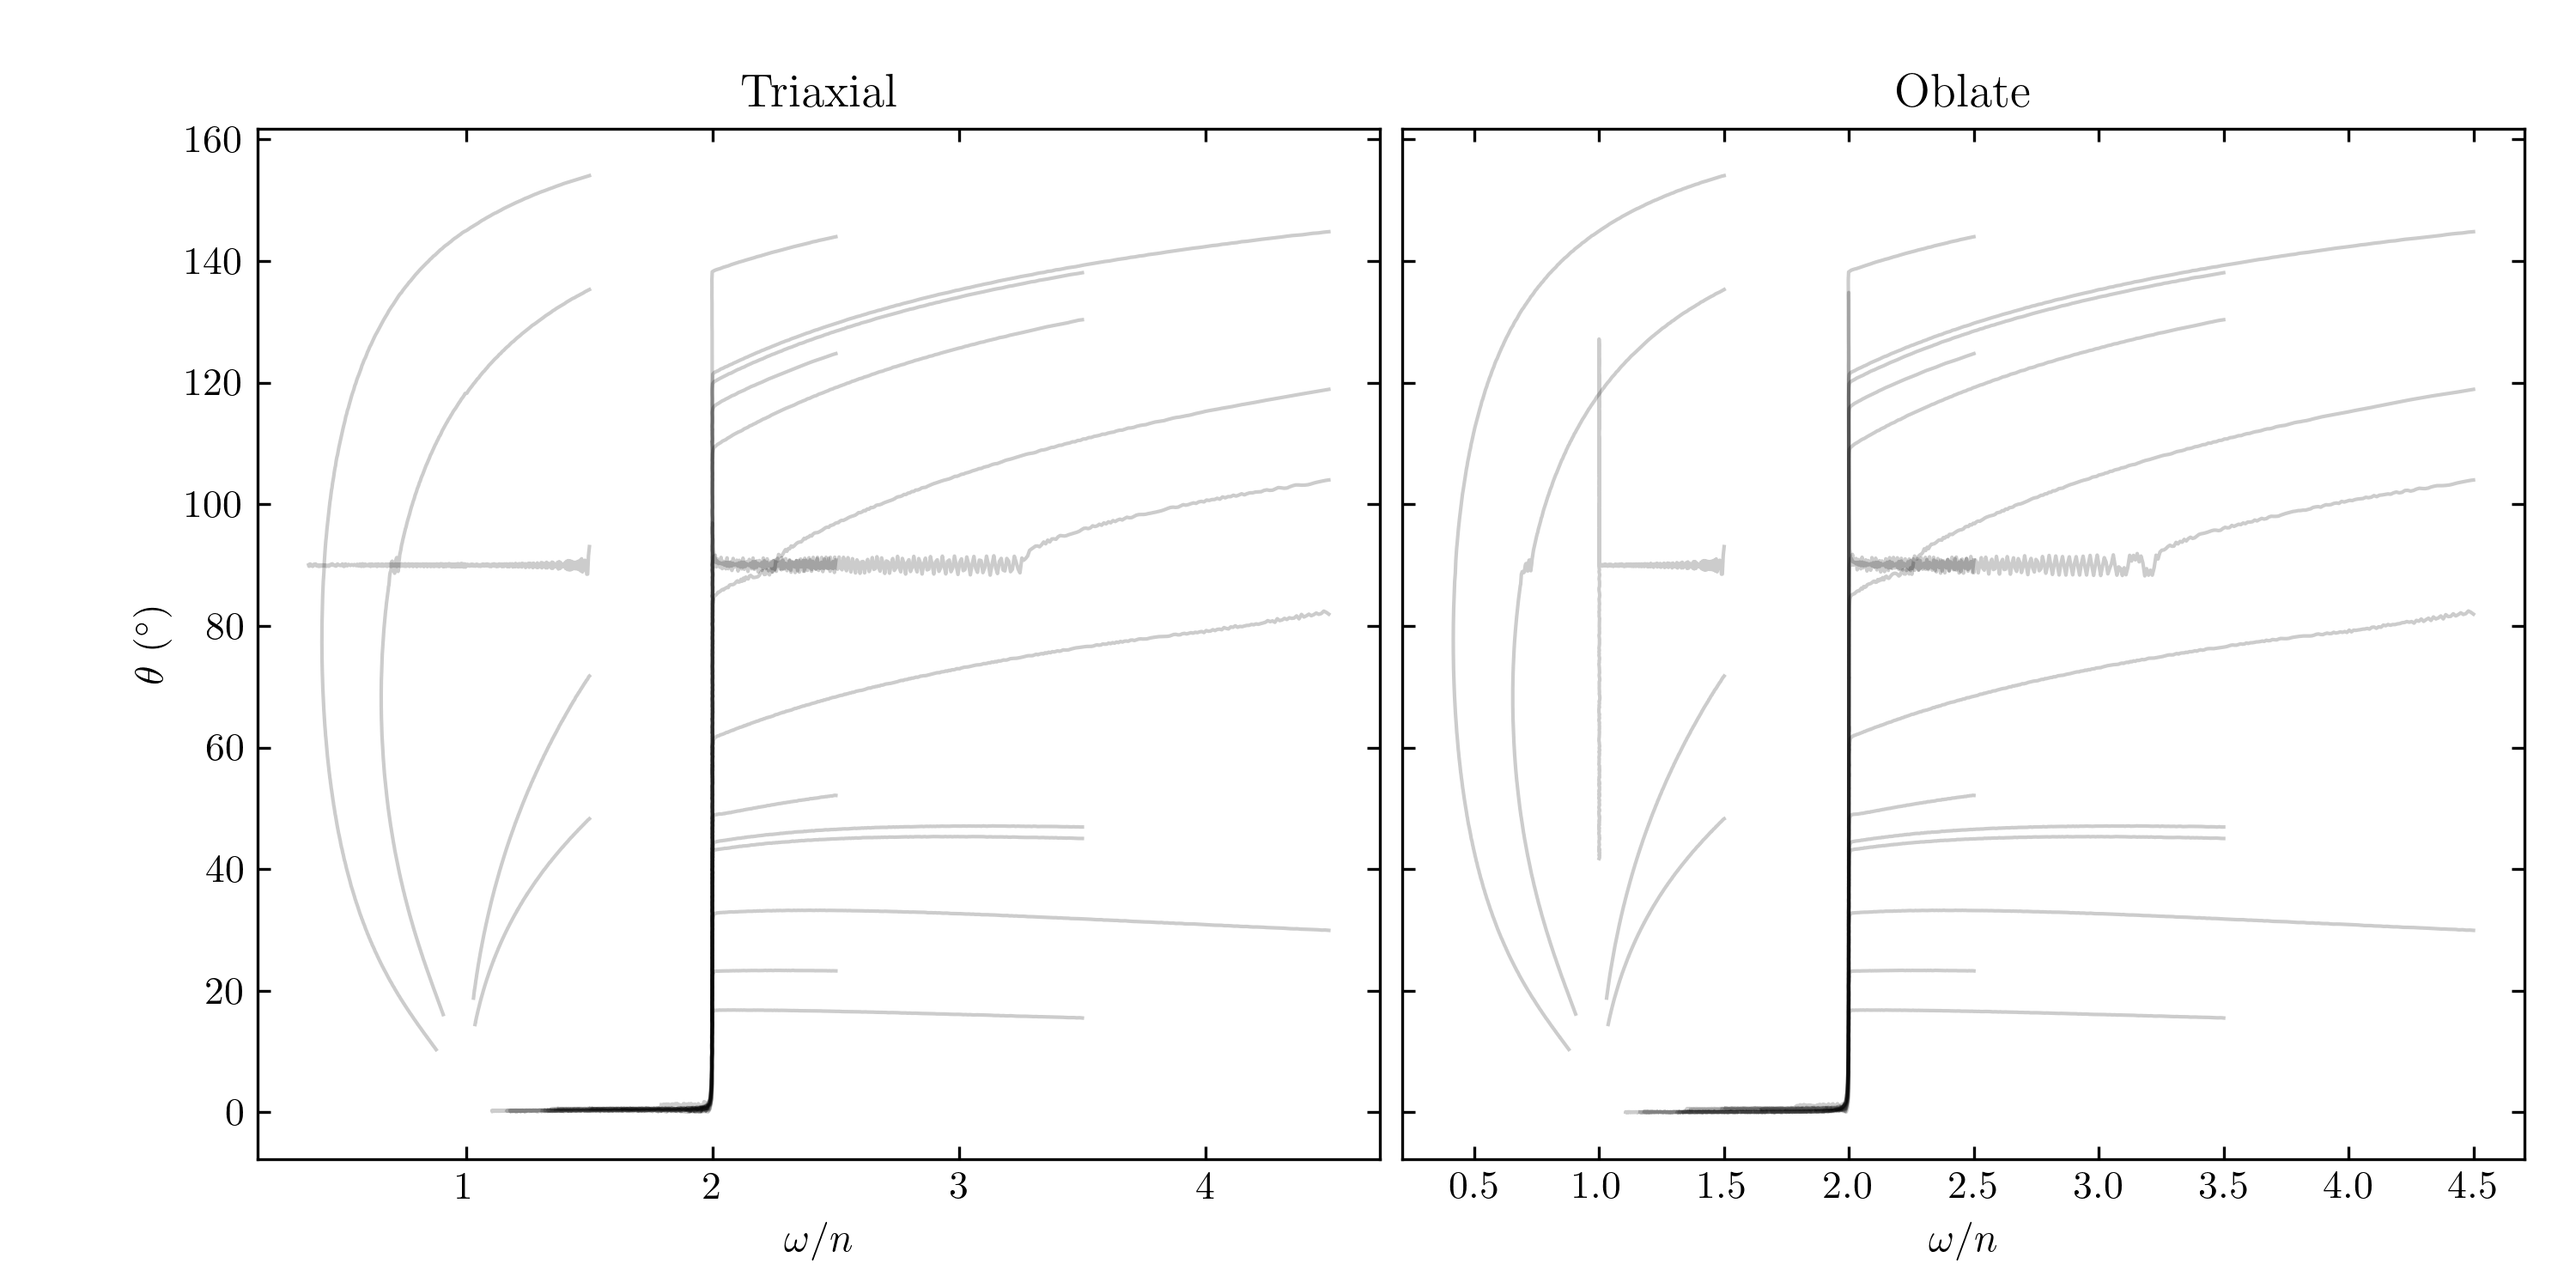
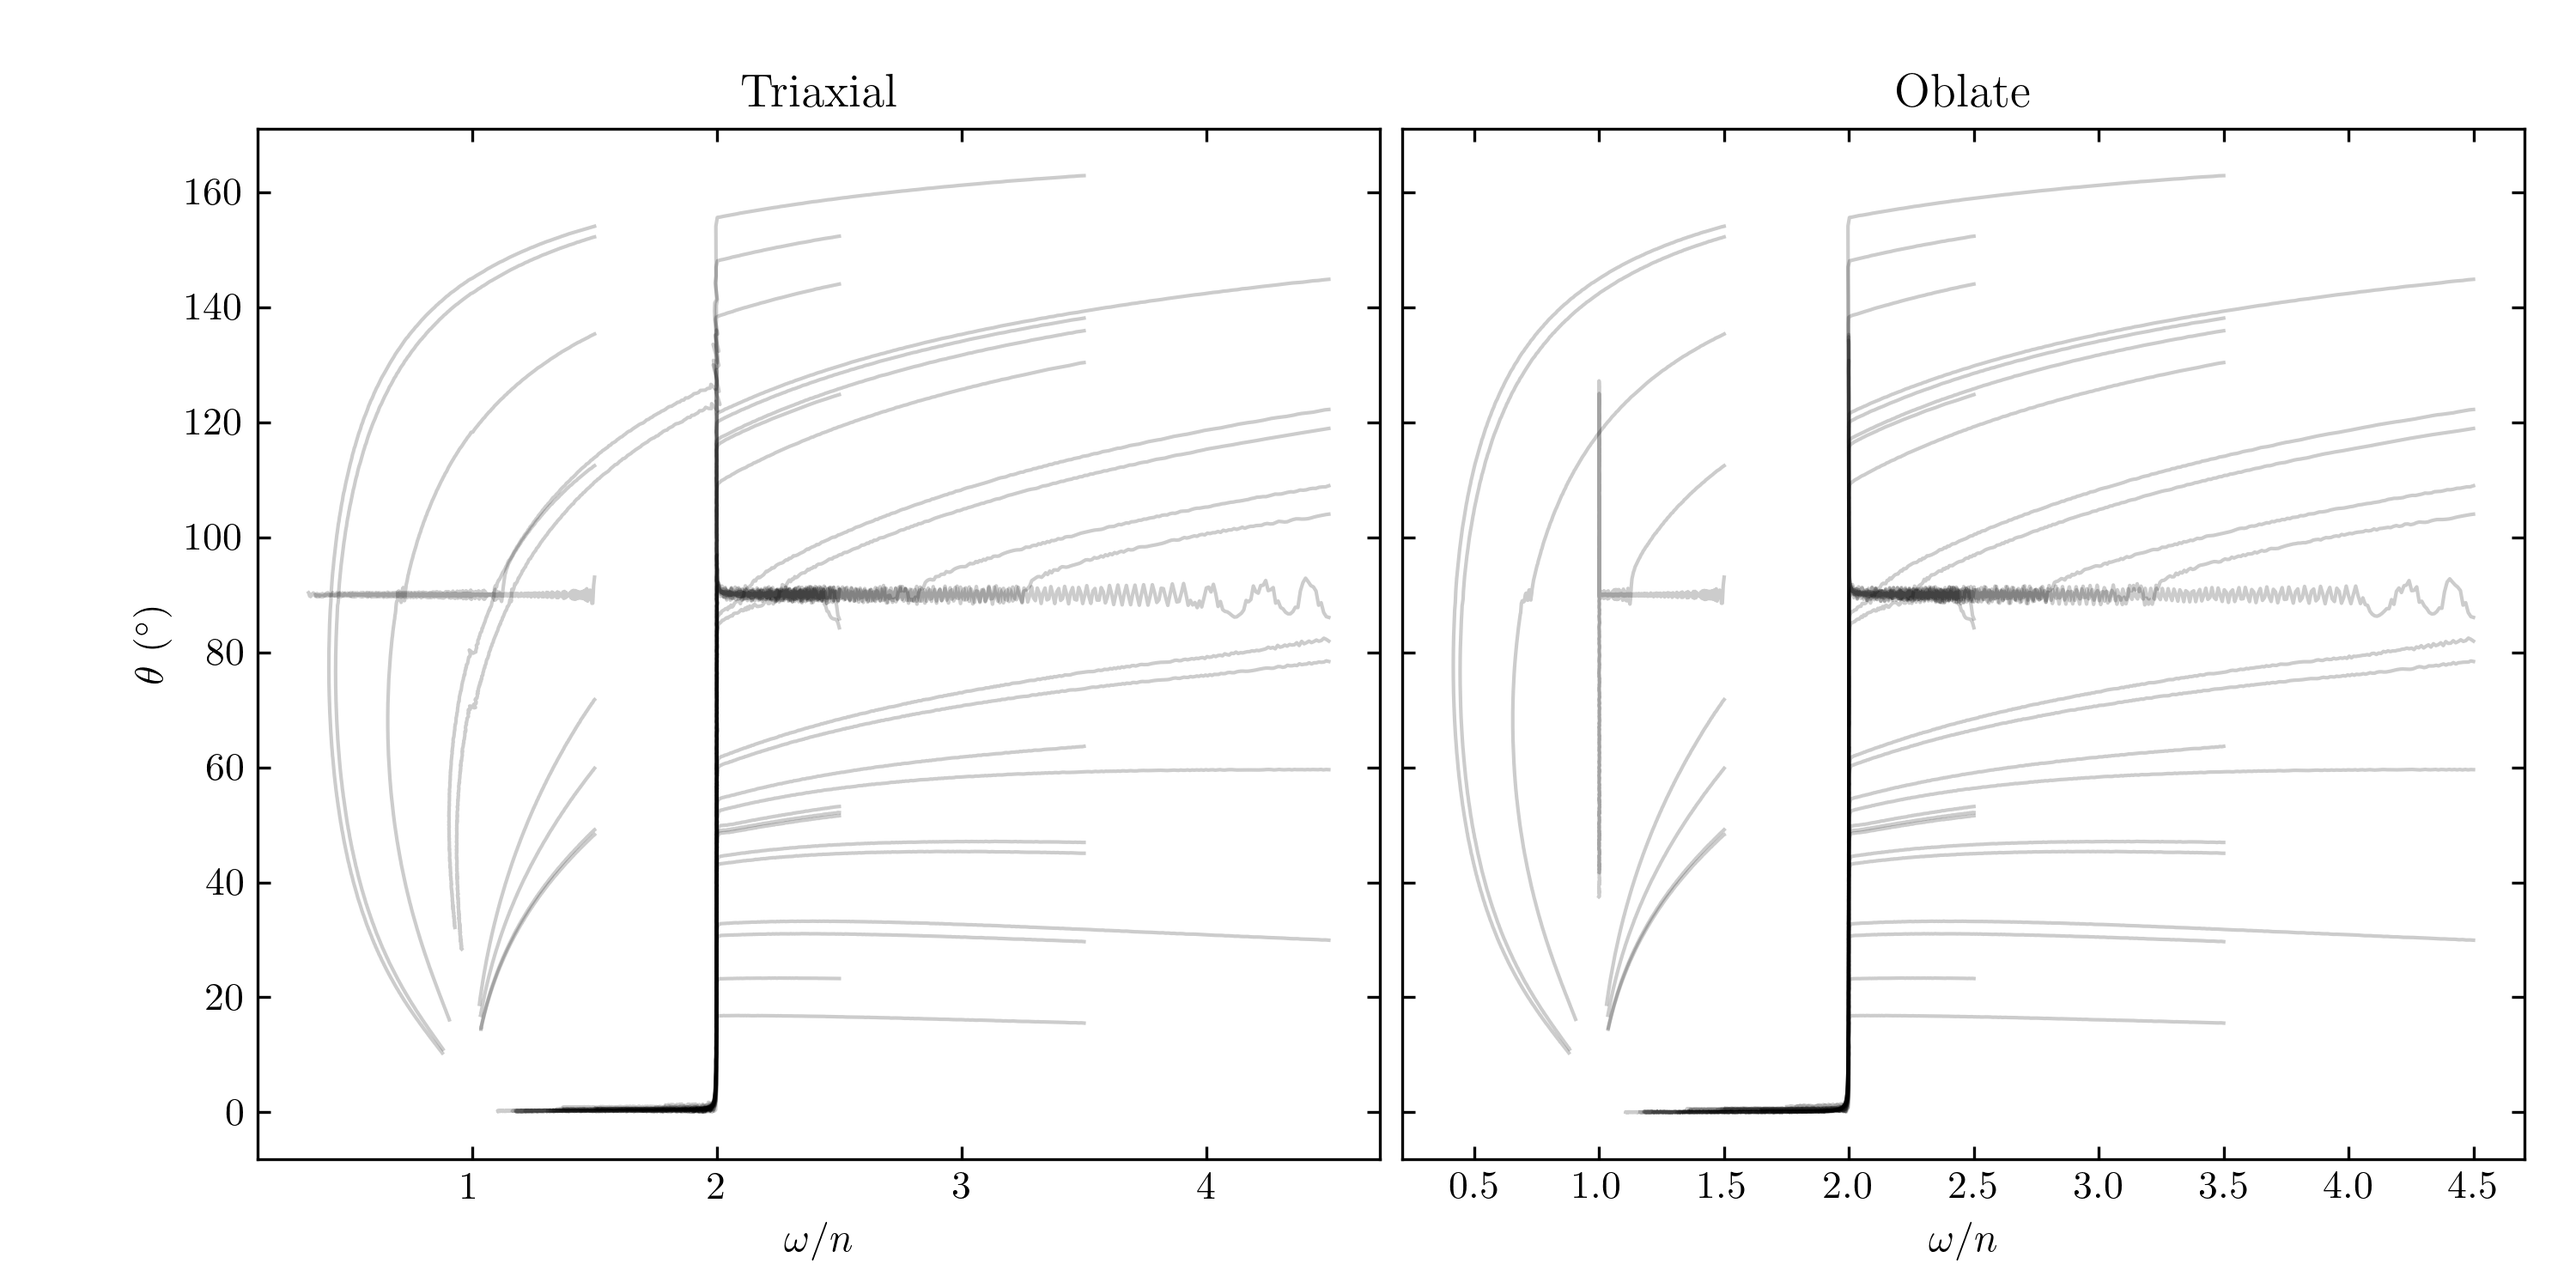
fixed some bugs

diff --git a/3body_plot_v2.py b/3body_plot_v2.py
@@ -15,7 +15,7 @@ plt.rc('ytick', direction='in', left=True, right=True)
 def get_fig_axs(nv):
     fig, axs = plt.subplots(nv-1, 2,figsize=(10, 16), sharex=True)
     plt.subplots_adjust(left=0.15, bottom=0.1, right=.98, top=0.92, wspace=0.1, hspace=0.1)
-    ylabels = [r"$\omega/n$",r"$\theta$ ($^{\circ}$)",r"$\phi$ ($^{\circ}$)",r"$\psi$ ($^{\circ}$)",r"$\phi$ ($^{\circ}$)",r"Inclination"]
+    ylabels = [r"$\omega/n$",r"$\theta$ ($^{\circ}$)",r"$\phi$ ($^{\circ}$)",r"$\psi$ ($^{\circ}$)",r"$\beta$ ($^{\circ}$)"] # ,r"Inclination"]
     for i in range(nv-1):
         axs[i,0].set_ylabel(ylabels[i])
     axs[nv-2,0].set_xlabel("Time (P)")
@@ -27,7 +27,7 @@ def get_fig_axs(nv):
 
 # ds is ds
 def plot_trial(fig,axs,triax_out_data,j2_out_data,inds,ds,alpha):
-    omega_ind,theta_ind,phi_ind,psi_ind,e_ind,t_ind = inds
+    omega_ind,theta_ind,phi_ind,psi_ind,sk_ind,t_ind = inds
     triax_ts = triax_out_data[t_ind,::ds]
     j2_ts = j2_out_data[t_ind,::ds]
 
@@ -39,37 +39,37 @@ def plot_trial(fig,axs,triax_out_data,j2_out_data,inds,ds,alpha):
     axs[theta_ind,0].plot(triax_ts,triax_out_data[theta_ind,::ds], lw=.5, color='black', alpha=alpha)
     axs[phi_ind,0].plot(triax_ts,triax_out_data[phi_ind,::ds], lw=.5, color='black', alpha=alpha)
     axs[psi_ind,0].plot(triax_ts,triax_out_data[psi_ind,::ds], lw=.5, color='black', alpha=alpha)
-    axs[e_ind,0].plot(triax_ts,triax_out_data[e_ind,::ds], lw=.5, color='black', alpha=alpha)
+    axs[sk_ind,0].plot(triax_ts,triax_out_data[sk_ind,::ds], lw=.5, color='black', alpha=alpha)
     #axs[inc_ind,0].plot(triax_ts,triax_out_data[inc_ind,::ds], lw=.5, color='black', alpha=alpha)
 
     axs[omega_ind,1].plot(j2_ts,j2_out_data[omega_ind,::ds], lw=.5, color='black', alpha=alpha)
     axs[theta_ind,1].plot(j2_ts,j2_out_data[theta_ind,::ds], lw=.5, color='black', alpha=alpha)
     axs[phi_ind,1].plot(j2_ts,j2_out_data[phi_ind,::ds], lw=.5, color='black', alpha=alpha)
     axs[psi_ind,1].plot(j2_ts,j2_out_data[psi_ind,::ds], lw=.5, color='black', alpha=alpha)
-    axs[e_ind,1].plot(j2_ts,j2_out_data[e_ind,::ds], lw=.5, color='black', alpha=alpha)
+    axs[sk_ind,1].plot(j2_ts,j2_out_data[sk_ind,::ds], lw=.5, color='black', alpha=alpha)
     #axs[inc_ind,1].plot(j2_ts,j2_out_data[inc_ind,::ds], lw=.5, color='black', alpha=alpha)
 
 if __name__=="__main__":
 
-    together = True
-
-    skip_trials = [26,32] # trials that didn't complete, skip them
+    # Params to change each time
+    together = False
+    dir_path = "./v2.1_data1"
+    n_trials = 100
+    skip_trials = [80] # trials that didn't complete, skip them
 
     # read data
-    n_trials = 20
     nv = 6
     omega_ind = 0
     theta_ind = 1
     phi_ind = 2
     psi_ind = 3
-    e_ind = 4
+    sk_ind = 4
     # inc_ind = 5
     t_ind = 5
-    inds = omega_ind,theta_ind,phi_ind,psi_ind,e_ind,t_ind
+    inds = omega_ind,theta_ind,phi_ind,psi_ind,sk_ind,t_ind
 
     ds = int(1.e3)
 
-    dir_path = "./v2_3bd_4sp_20i_3j2_5tri_300Q_0.025dt"
     plots_dir = os.path.join(dir_path,"plots")
     if not os.path.exists(plots_dir):
         os.mkdir(plots_dir)
@@ -101,6 +101,7 @@ if __name__=="__main__":
         if not together:
             plt.savefig(os.path.join(plots_dir,'3body_trial_'+str(i)+'.png'), dpi=300)
             plt.clf()
+            plt.close(fig)
 
     # if n_errs > 0:
     #     print(f"Omitting {n_errs} trials with spin rates > 8n")
@@ -108,6 +109,7 @@ if __name__=="__main__":
     if together:
         plt.savefig(os.path.join(plots_dir,'3body_trials.png'), dpi=300)
         plt.clf()
+        plt.close(fig)
 
     if together:
         # plot trajectories (theta vs omega)
@@ -134,3 +136,4 @@ if __name__=="__main__":
 
         plt.savefig(os.path.join(plots_dir,'3body_trajs.png'), dpi=300)
         plt.clf()
+        plt.close(fig)

diff --git a/3body.py b/3body.py
@@ -17,7 +17,8 @@ def get_rand_ijk():
             cont_bool = False
 
     j = pre_j / np.sqrt(np.dot(pre_j,pre_j))
-    k = np.cross(i,j)
+    proto_k = np.cross(i,j)
+    k = proto_k / np.sqrt(np.dot(proto_k,proto_k))
 
     return (i,j,k)
 
@@ -100,7 +101,9 @@ def calc_orbit_normal(ps, index):
     v = np.sqrt(np.dot(v_xyz,v_xyz))
     r_hat = r_xyz / r
     v_hat = v_xyz / v
-    return np.cross(r_hat, v_hat)
+    n = np.cross(r_hat, v_hat)
+    n_hat = n/np.sqrt(np.dot(n,n))
+    return n_hat
 
 # returns (obliquity, phi) of body at index 1 in radians
 def get_theta_phi(ps):
@@ -108,13 +111,16 @@ def get_theta_phi(ps):
     s_ijk = np.array([ps[1].params['tt_si'],ps[1].params['tt_sj'],ps[1].params['tt_sk']])
     ijk_xyz = np.array([[ps[1].params['tt_ix'],ps[1].params['tt_iy'],ps[1].params['tt_iz']],[ps[1].params['tt_jx'],ps[1].params['tt_jy'],ps[1].params['tt_jz']],[ps[1].params['tt_kx'],ps[1].params['tt_ky'],ps[1].params['tt_kz']]])
     s_xyz = s_ijk[0]*ijk_xyz[0] + s_ijk[1]*ijk_xyz[1] + s_ijk[2]*ijk_xyz[2]
+    s_xyz /= np.sqrt(np.dot(s_xyz,s_xyz))
     n_hat = calc_orbit_normal(ps,1) # orbit normal of triaxial planet
     theta = np.arccos(np.dot(n_hat,s_xyz))
     
     # calculate phi
     n_p_hat = calc_orbit_normal(ps,2) # orbit normal of perturbing planet
-    y_hat = np.cross(n_p_hat, n_hat) # unrelated to y basis unit vector
-    x_hat = np.cross(y_hat, n_hat) # unrelated to x basis unit vector
+    y = np.cross(n_p_hat, n_hat) # unrelated to y basis unit vector
+    y_hat = y/np.sqrt(np.dot(y,y))
+    x = np.cross(y_hat, n_hat) # unrelated to x basis unit vector
+    x_hat = x/np.sqrt(np.dot(x,x))
     phi = np.arctan2(np.dot(s_xyz,y_hat),np.dot(s_xyz,x_hat))
 
     # range from 0 to 360
@@ -235,7 +241,7 @@ def run_sim(trial_num, tf=2.e7, out_step=50.):
     i, j, k = get_rand_ijk()
 
     # make output directory and file
-    dir_path = "./v2.1_data1"
+    dir_path = "./v2.2_data"
     if trial_num == 0:
         if os.path.exists(dir_path):
             print("Error: Directory already exists")
